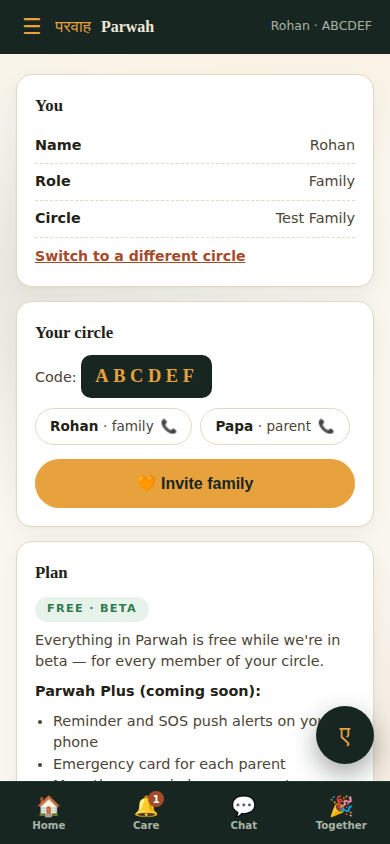
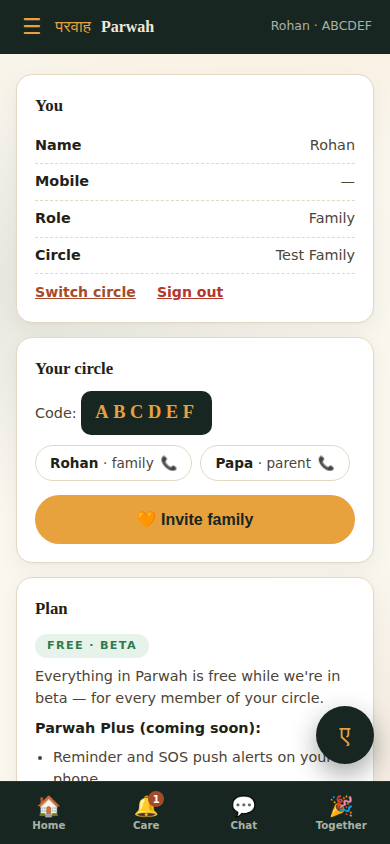
Phone-first sign up / sign in as the default entry
- New users table (unique phone) + members.user_id link; normPhone helper
  (+91 default for bare 10-digit Indian numbers)
- POST /api/auth action 'enter': known phone signs in and returns the
  profile + every circle membership; unknown phone with a name creates the
  profile and signs in — sign-up and sign-in in one seamless step (shape
  ready for OTP to slot in later)
- Entry flow: mobile number first; returning users auto-enter their only
  circle, get a picker when they have several; new numbers are asked for a
  name inline then land in circle setup with everything prefilled
- Circle create/join carries userId, links membership, reuses phone from
  the profile, and re-joining a circle you're already in signs you back
  into your existing membership instead of duplicating it
- Profile shows the mobile number + Sign out; Switch circle keeps you
  signed in and returns to your circle list; invite deep links survive the
  auth step with the join code prefilled
- 151 UI assertions green; SW v10

Claude-Session: https://claude.ai/code/session_01Xh4mPyqB6yfT7fr4Jwisqv

Changed region(s): [[0.0308, 0.1848, 0.9538, 0.9242], [0.7077, 0.2464, 0.9231, 0.3081], [0.8, 0.1848, 0.8923, 0.2464]]

diff --git a/site/public/app/index.html b/site/public/app/index.html
@@ -292,14 +292,34 @@ input[type=text]{width:100%;border:1px solid var(--bone-2);border-radius:12px;pa
   <h1>Your family's circle</h1>
   <p class="lede">One private circle for your family. Check-ins, SOS and messages reach everyone in it — and only them.</p>
 
+  <div class="card" id="auth-step">
+    <h3>Sign in with your mobile number</h3>
+    <label for="au-phone">Mobile number</label>
+    <input type="tel" id="au-phone" maxlength="20" placeholder="+91 98765 43210" autocomplete="tel">
+    <div id="au-namewrap" hidden>
+      <label for="au-name">Your name — new number, we'll create your profile</label>
+      <input type="text" id="au-name" maxlength="60" placeholder="e.g. Rohan" autocomplete="name">
+    </div>
+    <button class="go" id="au-go">Continue</button>
+    <p class="hint">One number, all your circles. Already signed up? You're in with one tap. New? Profile created and signed in, instantly.</p>
+  </div>
+
+  <div id="circle-step" hidden>
+    <div class="card">
+      <h3 id="cs-hello">Welcome back! 🧡</h3>
+      <p class="hint" style="margin:0 0 10px">Your circles:</p>
+      <div class="feed" id="cs-list"></div>
+      <button class="linkbtn" id="cs-new">＋ Create or join another circle</button>
+    </div>
+  </div>
+
+  <div id="setup-step" hidden>
   <div class="card">
     <h3>Start a new circle</h3>
     <label for="c-name">Your name</label>
     <input type="text" id="c-name" maxlength="60" placeholder="e.g. Rohan">
     <label for="c-circle">Circle name</label>
     <input type="text" id="c-circle" maxlength="60" placeholder="e.g. Sharma Family">
-    <label for="c-phone">Phone (optional — so family can call you in one tap)</label>
-    <input type="tel" id="c-phone" maxlength="20" placeholder="+91 98765 43210">
     <label>You are</label>
     <div class="rolepick" id="c-role">
       <button type="button" data-role="family" class="sel">Son / daughter / family</button>
@@ -314,14 +334,13 @@ input[type=text]{width:100%;border:1px solid var(--bone-2);border-radius:12px;pa
     <input type="text" id="j-code" maxlength="6" placeholder="6 letters, e.g. KJM4PW" style="text-transform:uppercase;letter-spacing:.2em">
     <label for="j-name">Your name</label>
     <input type="text" id="j-name" maxlength="60" placeholder="e.g. Papa">
-    <label for="j-phone">Phone (optional — so family can call you in one tap)</label>
-    <input type="tel" id="j-phone" maxlength="20" placeholder="+91 98765 43210">
     <label>You are</label>
     <div class="rolepick" id="j-role">
       <button type="button" data-role="family" class="sel">Son / daughter / family</button>
       <button type="button" data-role="parent">Parent (senior mode)</button>
     </div>
     <button class="go" id="j-go">Join the circle</button>
+  </div>
   </div>
   <p class="err" id="ob-err"></p>
 </div>
@@ -586,9 +605,11 @@ input[type=text]{width:100%;border:1px solid var(--bone-2);border-radius:12px;pa
     <div class="card">
       <h3>You</h3>
       <div class="kv"><b>Name</b><span id="p-name"></span></div>
+      <div class="kv"><b>Mobile</b><span id="p-phone">—</span></div>
       <div class="kv"><b>Role</b><span id="p-role"></span></div>
       <div class="kv"><b>Circle</b><span id="p-circle"></span></div>
-      <button class="linkbtn" id="leave">Switch to a different circle</button>
+      <button class="linkbtn" id="leave">Switch circle</button>
+      <button class="linkbtn" id="signout" style="margin-left:16px;color:var(--alert)">Sign out</button>
     </div>
 
     <div class="card">
@@ -693,11 +714,15 @@ input[type=text]{width:100%;border:1px solid var(--bone-2);border-radius:12px;pa
 <script>
 (function(){
   var $ = function(id){ return document.getElementById(id); };
-  var API = { circle: '../api/circle', events: '../api/events', care: '../api/care', ekta: '../api/ekta', chats: '../api/chats', games: '../api/games', plans: '../api/plans' };
+  var API = { circle: '../api/circle', events: '../api/events', care: '../api/care', ekta: '../api/ekta', chats: '../api/chats', games: '../api/games', plans: '../api/plans', auth: '../api/auth' };
   var TABS = ['home','care','chat','ekta','profile','fun'];
   var state = null;
   var pollTimer = null, toastTimer = null;
   var curChat = null, chatsCache = [], membersCache = [];
+  var authUser = null, pendingJoin = null;
+  function loadAuth(){ try { return JSON.parse(localStorage.getItem('parwah-user') || 'null'); } catch (e) { return null; } }
+  function saveAuth(u){ try { localStorage.setItem('parwah-user', JSON.stringify(u)); } catch (e) {} }
+  function clearAuth(){ try { localStorage.removeItem('parwah-user'); } catch (e) {} }
   var curTab = 'home', curGame = null, gameTimer = null, planKind = 'call';
 
   function loadState(){ try { return JSON.parse(localStorage.getItem('parwah') || 'null'); } catch(e){ return null; } }
@@ -1083,6 +1108,7 @@ input[type=text]{width:100%;border:1px solid var(--bone-2);border-radius:12px;pa
     $('d-user').textContent = state.name + ' · ' + state.code;
     $('hamb').hidden = false;
     $('p-name').textContent = state.name;
+    $('p-phone').textContent = (authUser && authUser.phone) || '—';
     $('p-role').textContent = state.role === 'parent' ? 'Parent (senior mode)' : 'Family';
     $('p-senior').textContent = state.role === 'parent' ? 'On — big buttons on Home' : 'Off (for members who join as Parent)';
     try {
@@ -1097,7 +1123,7 @@ input[type=text]{width:100%;border:1px solid var(--bone-2);border-radius:12px;pa
   }
 
   $('leave').addEventListener('click', function(){
-    if (confirm('Leave this device’s circle view? (The circle itself stays.)')) { clearState(); location.hash = ''; location.reload(); }
+    if (confirm('Switch circle? You stay signed in — your circles will be listed.')) { clearState(); location.hash = ''; location.reload(); }
   });
 
   function sendEvent(type, text, after){
@@ -1109,6 +1135,75 @@ input[type=text]{width:100%;border:1px solid var(--bone-2);border-radius:12px;pa
       .catch(function(){ toast('No connection — try again'); });
   }
 
+  // ---------- phone-first sign in / sign up ----------
+  function showStep(which){
+    $('auth-step').hidden = which !== 'auth';
+    $('circle-step').hidden = which !== 'circles';
+    $('setup-step').hidden = which !== 'setup';
+  }
+  function enterCircle(c){
+    state = { code: c.code, circleName: c.circleName, memberId: c.memberId, name: c.memberName || (authUser && authUser.name) || '', role: c.role };
+    saveState(state);
+    enterMain();
+    toast('Signed in — welcome back, ' + state.name + ' 🧡');
+  }
+  function routeAfterAuth(circles){
+    $('ob-err').textContent = '';
+    if (pendingJoin) {
+      showStep('setup');
+      $('j-code').value = pendingJoin;
+      $('c-name').value = authUser.name; $('j-name').value = authUser.name;
+      try { $('j-name').focus(); } catch (e) {}
+      return;
+    }
+    if (circles && circles.length === 1) { enterCircle(circles[0]); return; }
+    if (circles && circles.length > 1) {
+      $('cs-hello').textContent = 'Welcome back, ' + authUser.name + '! 🧡';
+      var h = '';
+      circles.forEach(function(c, i){
+        h += '<button class="chatrow" data-encircle="' + i + '"><span class="cic" aria-hidden="true">🧡</span><span class="txt"><b>' + esc(c.circleName) + '</b><small>code ' + esc(c.code) + ' · as ' + esc(c.memberName || authUser.name) + '</small></span></button>';
+      });
+      $('cs-list').innerHTML = h;
+      window._authCircles = circles;
+      showStep('circles');
+      return;
+    }
+    $('c-name').value = authUser.name; $('j-name').value = authUser.name;
+    showStep('setup');
+  }
+  $('au-go').addEventListener('click', function(){
+    var phone = $('au-phone').value.trim();
+    if (!phone) { $('ob-err').textContent = 'Please enter your mobile number.'; return; }
+    var btn = this; btn.disabled = true; $('ob-err').textContent = '';
+    post(API.auth, { action: 'enter', phone: phone, name: $('au-name').value.trim() })
+      .then(function(j){
+        btn.disabled = false;
+        if (!j.ok) { $('ob-err').textContent = j.error || 'Could not sign you in.'; return; }
+        if (!j.exists) {
+          $('au-namewrap').hidden = false;
+          $('au-go').textContent = 'Create my profile & continue';
+          try { $('au-name').focus(); } catch (e) {}
+          return;
+        }
+        authUser = j.user; saveAuth(authUser);
+        routeAfterAuth(j.circles || []);
+      })
+      .catch(function(){ btn.disabled = false; $('ob-err').textContent = 'No connection — try again.'; });
+  });
+  $('au-phone').addEventListener('keydown', function(e){ if (e.key === 'Enter') $('au-go').click(); });
+  $('au-name').addEventListener('keydown', function(e){ if (e.key === 'Enter') $('au-go').click(); });
+  $('circle-step').addEventListener('click', function(e){
+    var b = e.target.closest('button[data-encircle]');
+    if (b && window._authCircles) enterCircle(window._authCircles[+b.getAttribute('data-encircle')]);
+  });
+  $('cs-new').addEventListener('click', function(){
+    $('c-name').value = authUser ? authUser.name : ''; $('j-name').value = authUser ? authUser.name : '';
+    showStep('setup');
+  });
+  $('signout').addEventListener('click', function(){
+    if (confirm('Sign out of Parwah on this device?')) { clearAuth(); clearState(); location.hash = ''; location.reload(); }
+  });
+
   // ---------- onboarding ----------
   var cRole = rolePicker('c-role'), jRole = rolePicker('j-role');
 
@@ -1116,7 +1211,7 @@ input[type=text]{width:100%;border:1px solid var(--bone-2);border-radius:12px;pa
     var name = $('c-name').value.trim();
     if (!name) { $('ob-err').textContent = 'Please enter your name.'; return; }
     this.disabled = true; $('ob-err').textContent = '';
-    post(API.circle, { action:'create', memberName:name, circleName:$('c-circle').value.trim(), phone:$('c-phone').value.trim(), role:cRole() })
+    post(API.circle, { action:'create', memberName:name, circleName:$('c-circle').value.trim(), userId: authUser && authUser.id, role:cRole() })
       .then(function(j){
         $('c-go').disabled = false;
         if (!j.ok) { $('ob-err').textContent = j.error || 'Could not create the circle.'; return; }
@@ -1131,7 +1226,7 @@ input[type=text]{width:100%;border:1px solid var(--bone-2);border-radius:12px;pa
     var name = $('j-name').value.trim(), code = $('j-code').value.trim().toUpperCase();
     if (!code || !name) { $('ob-err').textContent = 'Please enter the code and your name.'; return; }
     this.disabled = true; $('ob-err').textContent = '';
-    post(API.circle, { action:'join', memberName:name, code:code, phone:$('j-phone').value.trim(), role:jRole() })
+    post(API.circle, { action:'join', memberName:name, code:code, userId: authUser && authUser.id, role:jRole() })
       .then(function(j){
         $('j-go').disabled = false;
         if (!j.ok) { $('ob-err').textContent = j.error || 'Could not join.'; return; }
@@ -1655,13 +1750,23 @@ input[type=text]{width:100%;border:1px solid var(--bone-2);border-radius:12px;pa
     try { navigator.serviceWorker.register('sw.js'); } catch (e) {}
   }
   state = loadState();
+  authUser = loadAuth();
+  try {
+    var jc = new URLSearchParams(location.search).get('join');
+    if (jc) pendingJoin = jc.toUpperCase().slice(0, 6);
+  } catch (e) {}
   if (state && state.code && state.memberId) enterMain();
-  else {
-    // arriving from an invite link — prefill the join code
-    try {
-      var jc = new URLSearchParams(location.search).get('join');
-      if (jc) { $('j-code').value = jc.toUpperCase().slice(0, 6); $('j-name').focus(); }
-    } catch (e) {}
+  else if (authUser && authUser.phone) {
+    // signed in on this device — refresh circles and route straight in
+    showStep('auth');
+    post(API.auth, { action: 'enter', phone: authUser.phone })
+      .then(function(j){
+        if (j.ok && j.exists) { authUser = j.user; saveAuth(authUser); routeAfterAuth(j.circles || []); }
+        else showStep('auth');
+      })
+      .catch(function(){ showStep('auth'); });
+  } else {
+    showStep('auth');
   }
 })();
 </script>

diff --git a/site/public/app/sw.js b/site/public/app/sw.js
@@ -1,6 +1,6 @@
 // Parwah app service worker — makes the app installable and keeps the shell
 // available offline. API calls always go to the network.
-var CACHE = 'parwah-app-v9';
+var CACHE = 'parwah-app-v10';
 var SHELL = ['/app/', '/app/manifest.webmanifest', '/app/icon-192.png'];
 
 self.addEventListener('install', function (e) {
